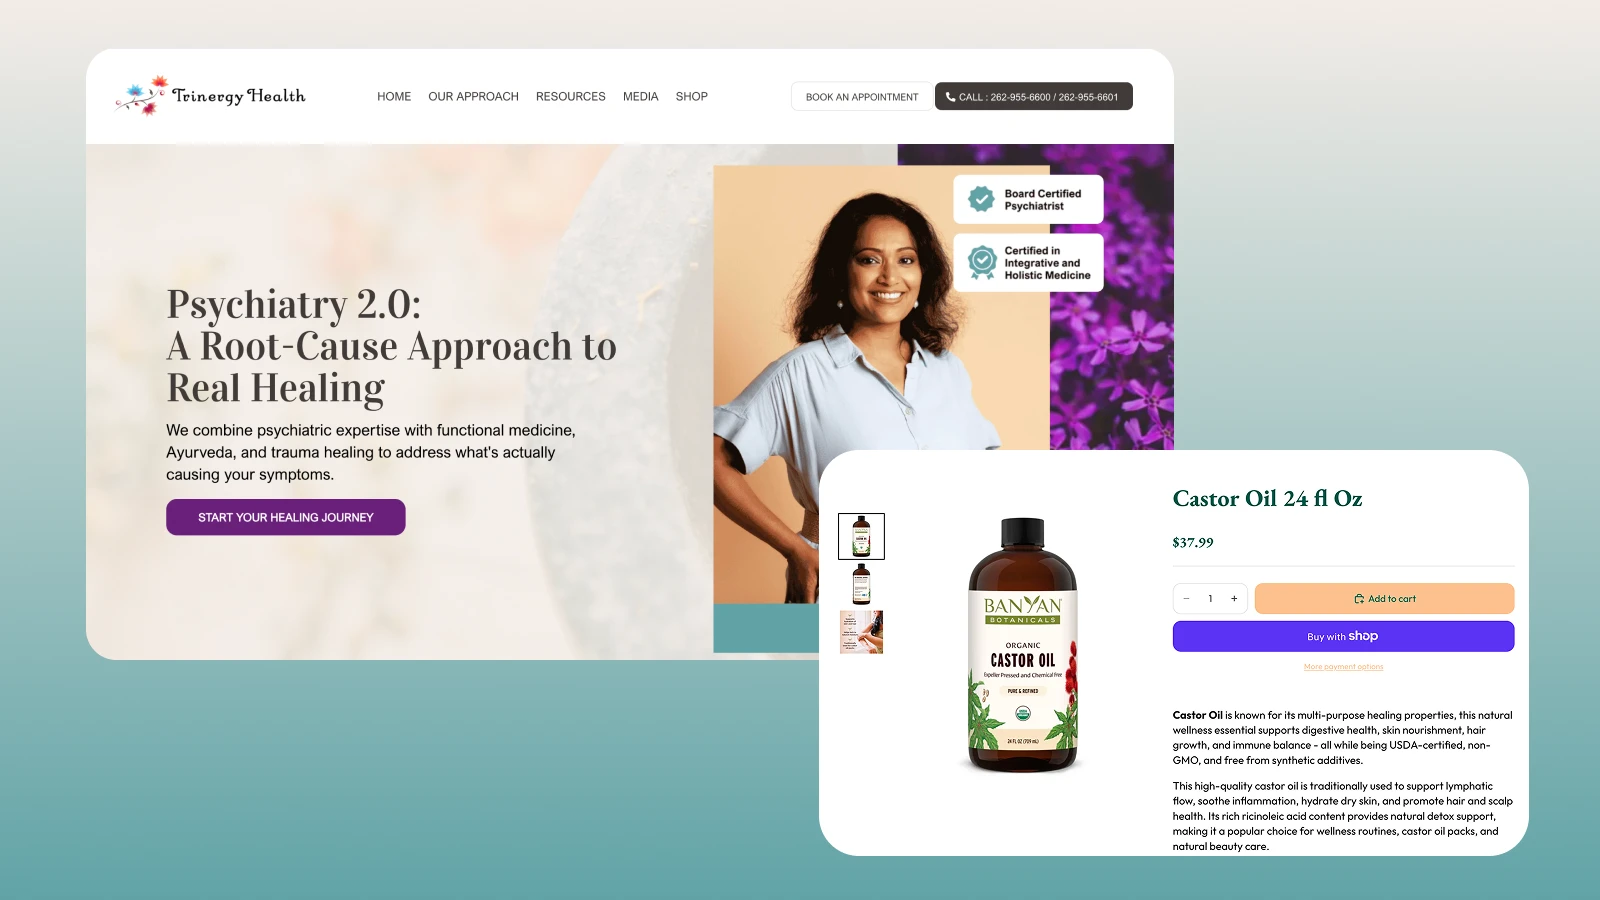
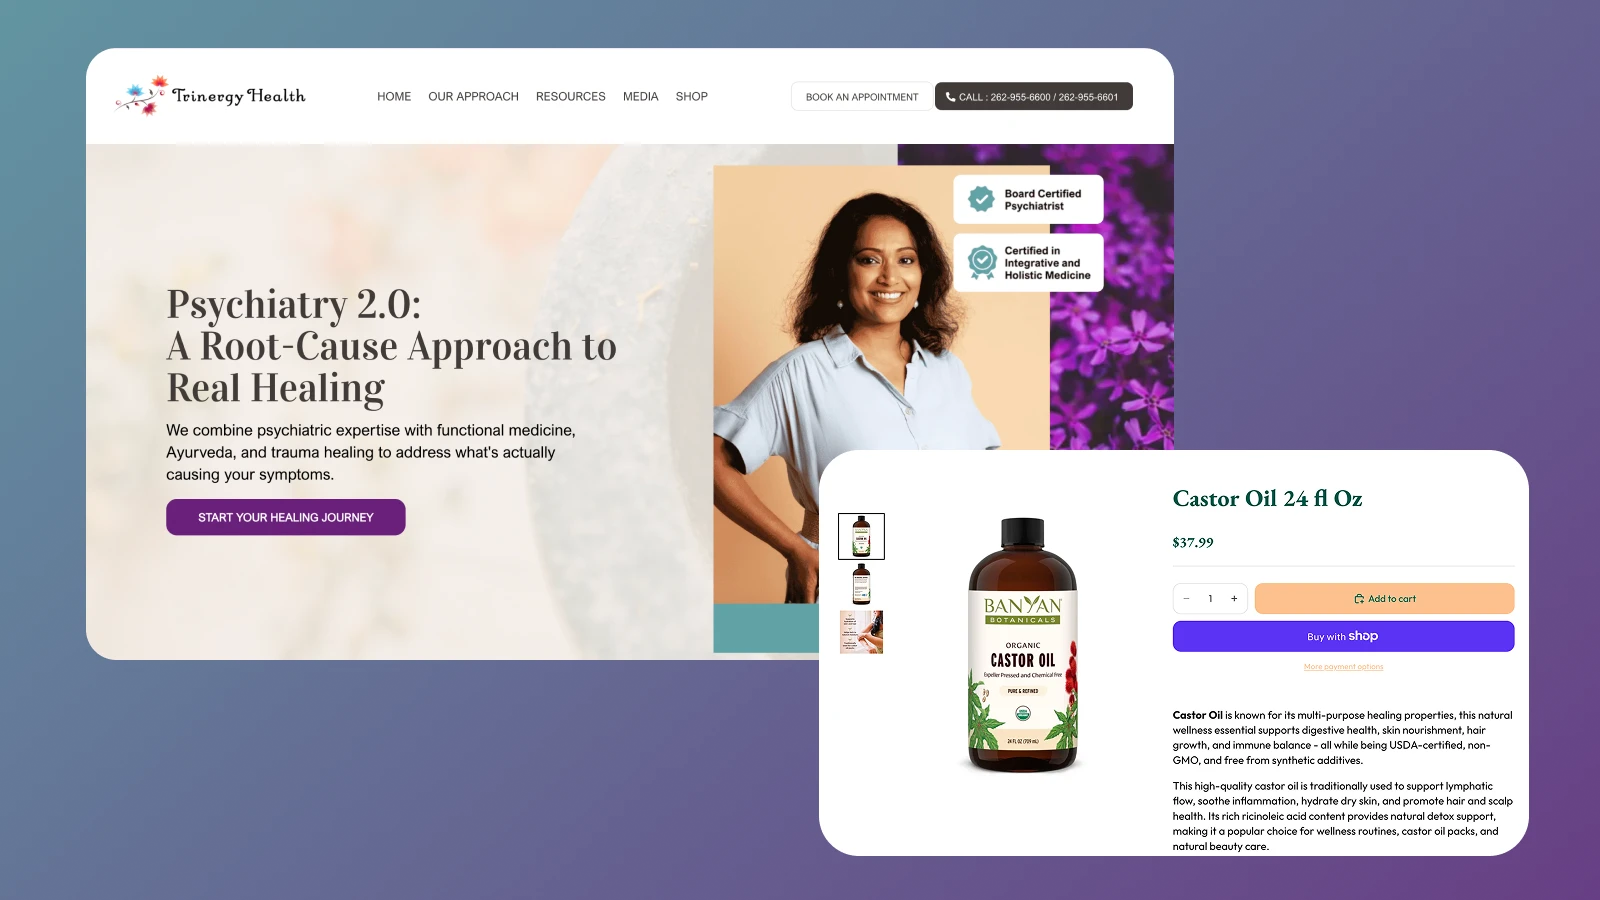
Update the Trinergy Health thumbnail
New shot pairs the homepage with a store product page, so the alt text
now names the store too. The filename is unchanged, so the src carries
?v=2 to get past a cached copy.

diff --git a/portfolio_case_study/index.html b/portfolio_case_study/index.html
@@ -309,7 +309,7 @@
       <div class="sites__grid">
         <a class="card reveal" data-cursor-label="Visit site" href="https://trinergyhealth.com" target="_blank" rel="noopener">
           <div class="card__media">
-            <img width="1600" height="900" src="images/trinergy-health.webp" alt="Trinergy Health, integrative psychiatry and wellness site" loading="lazy">
+            <img width="1600" height="900" src="images/trinergy-health.webp?v=2" alt="Trinergy Health, integrative psychiatry site and wellness store" loading="lazy">
           </div>
           <div class="card__text">
             <h3 class="t-h3 card__title">Trinergy Health, integrative psychiatry</h3>
